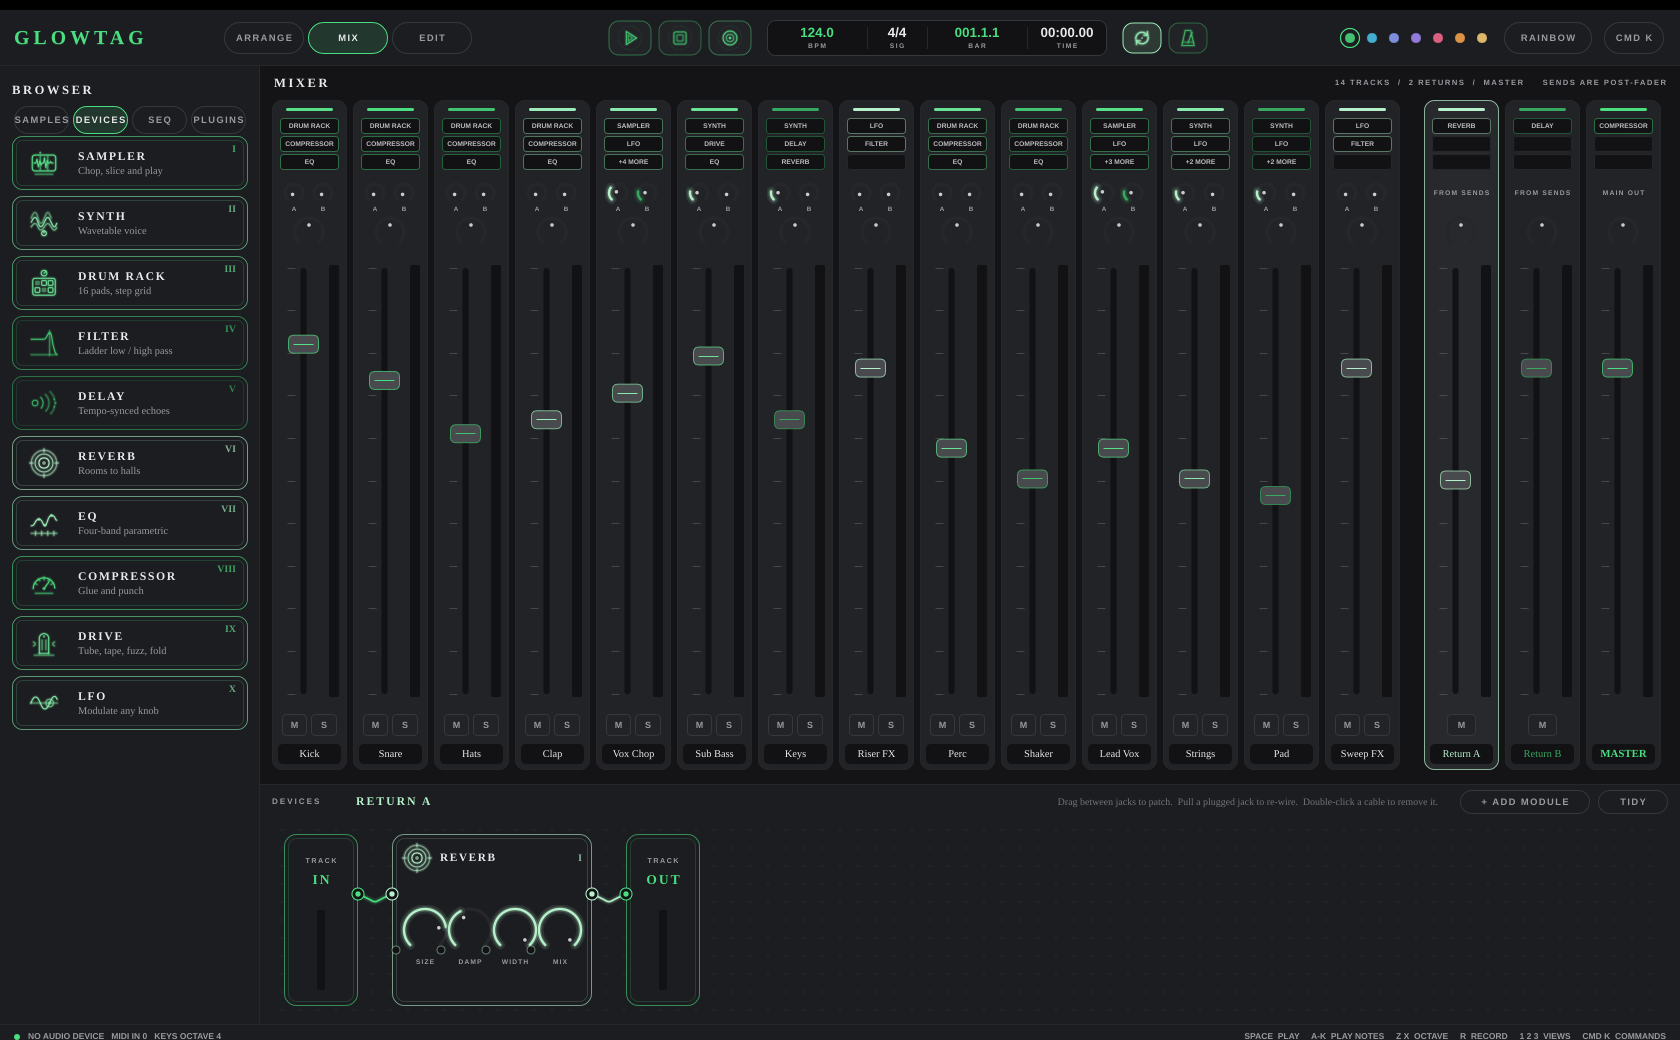
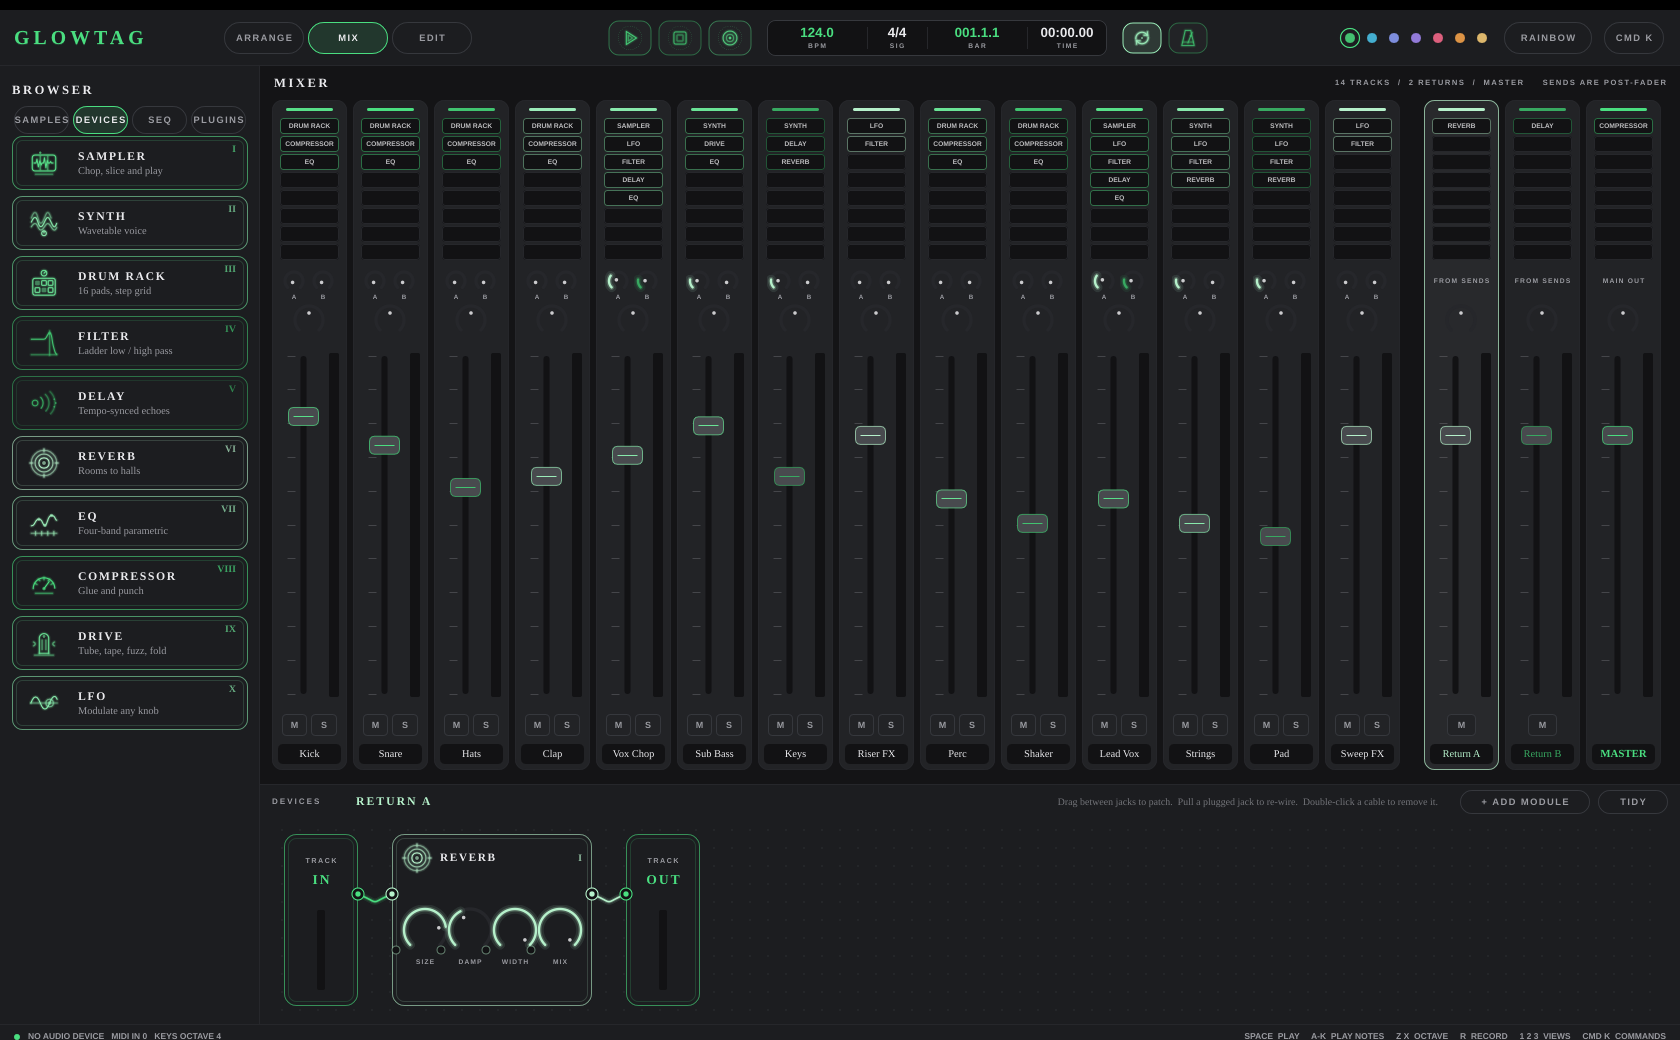
Mixer: eight insert slots per strip
Claude-Session: https://claude.ai/code/session_01FRhGxziEeB9LLpUPEGmm6D

diff --git a/Source/UI/MixerView.cpp b/Source/UI/MixerView.cpp
@@ -5,6 +5,7 @@ namespace
     constexpr int minStripWidth = 74;
     constexpr int maxStripWidth = 100;
     constexpr int stripGap = 6;
+    constexpr int numInsertSlots = 8;   // insert boxes shown per strip
 }
 
 ChannelStrip::ChannelStrip (AppContext& c, int s)
@@ -91,7 +92,7 @@ void ChannelStrip::resized()
 {
     auto r = getLocalBounds().reduced (8, 10);
     r.removeFromTop (8);                          // colour cap
-    insertArea = r.removeFromTop (54);
+    insertArea = r.removeFromTop (numInsertSlots * 18 - 2);
     r.removeFromTop (6);
     sendArea = r.removeFromTop (30);
     if (! sends.isEmpty())
@@ -138,12 +139,12 @@ void ChannelStrip::paint (juce::Graphics& g)
     // Insert slots: the devices in this slot's patch, in chain order
     const auto inserts = insertNames();
     auto ins = insertArea.toFloat();
-    for (int i = 0; i < 3; ++i)
+    for (int i = 0; i < numInsertSlots; ++i)
     {
         auto box = ins.removeFromTop (16.0f);
         ins.removeFromTop (2.0f);
         const bool filled = i < inserts.size();
-        const bool more = i == 2 && inserts.size() > 3;
+        const bool more = i == numInsertSlots - 1 && inserts.size() > numInsertSlots;
         g.setColour (th.display);
         g.fillRoundedRectangle (box, 3.0f);
         g.setColour (filled ? c.withAlpha (0.45f) : th.line2);
@@ -152,7 +153,7 @@ void ChannelStrip::paint (juce::Graphics& g)
         {
             g.setColour (th.text.withAlpha (0.8f));
             g.setFont (th.label (7.5f));
-            g.drawFittedText (more ? "+" + juce::String (inserts.size() - 2) + " MORE" : inserts[i].toUpperCase(),
+            g.drawFittedText (more ? "+" + juce::String (inserts.size() - numInsertSlots + 1) + " MORE" : inserts[i].toUpperCase(),
                               box.toNearestInt().reduced (3, 0), juce::Justification::centred, 1);
         }
     }
